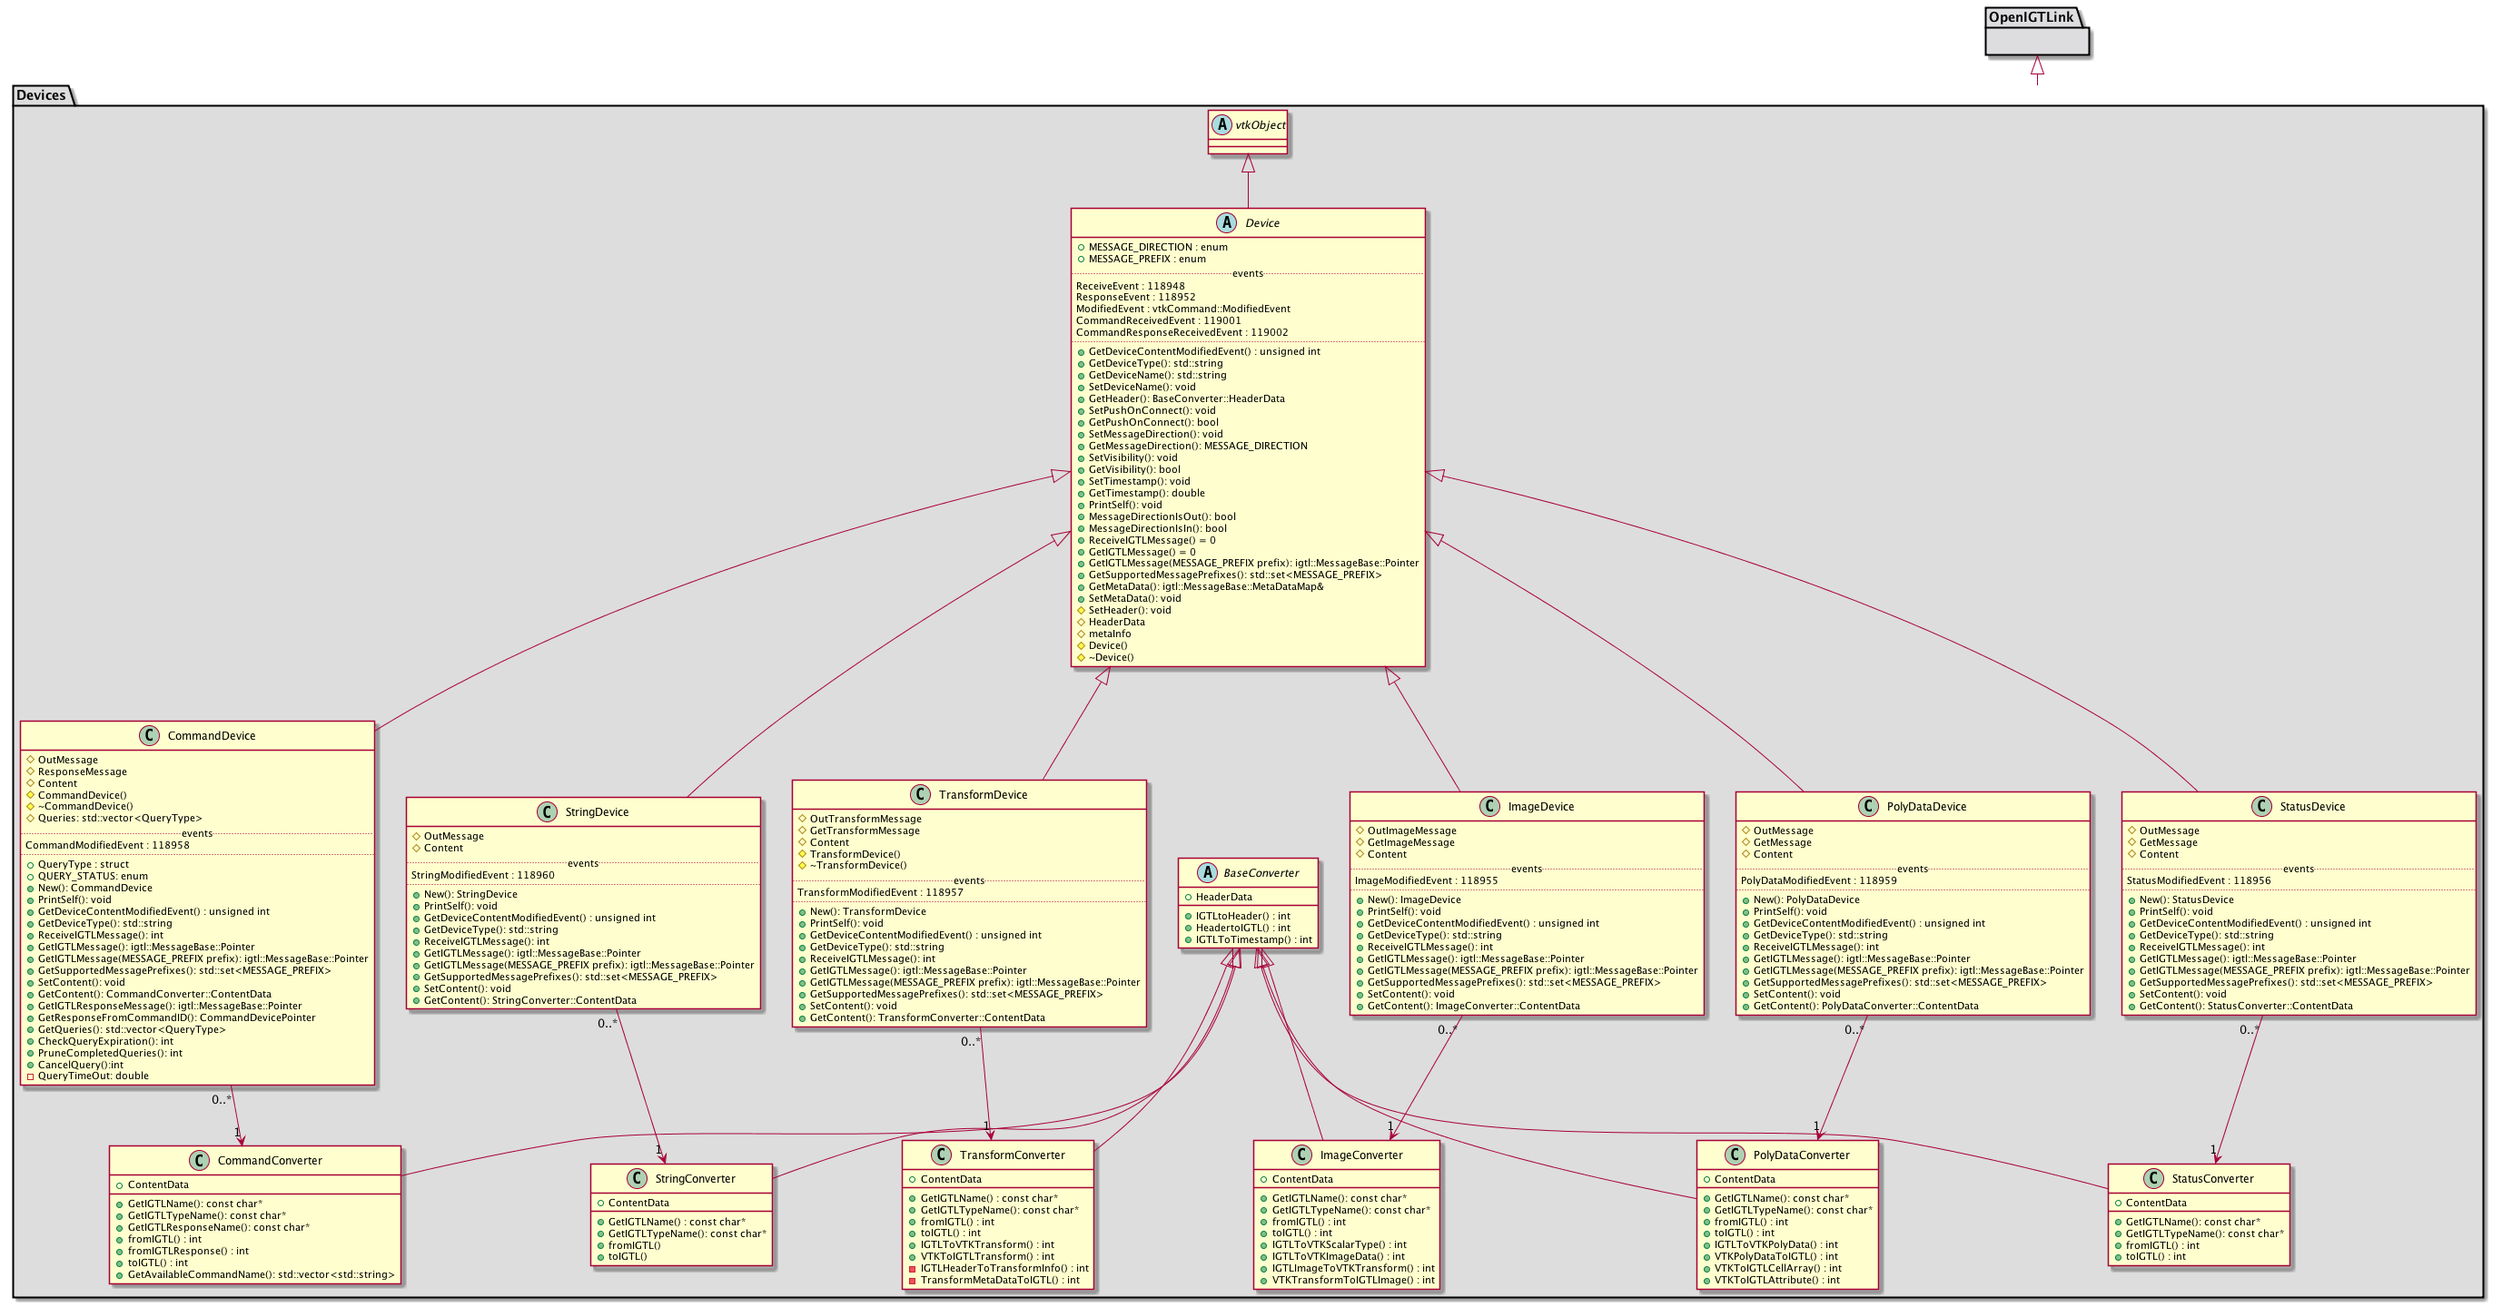
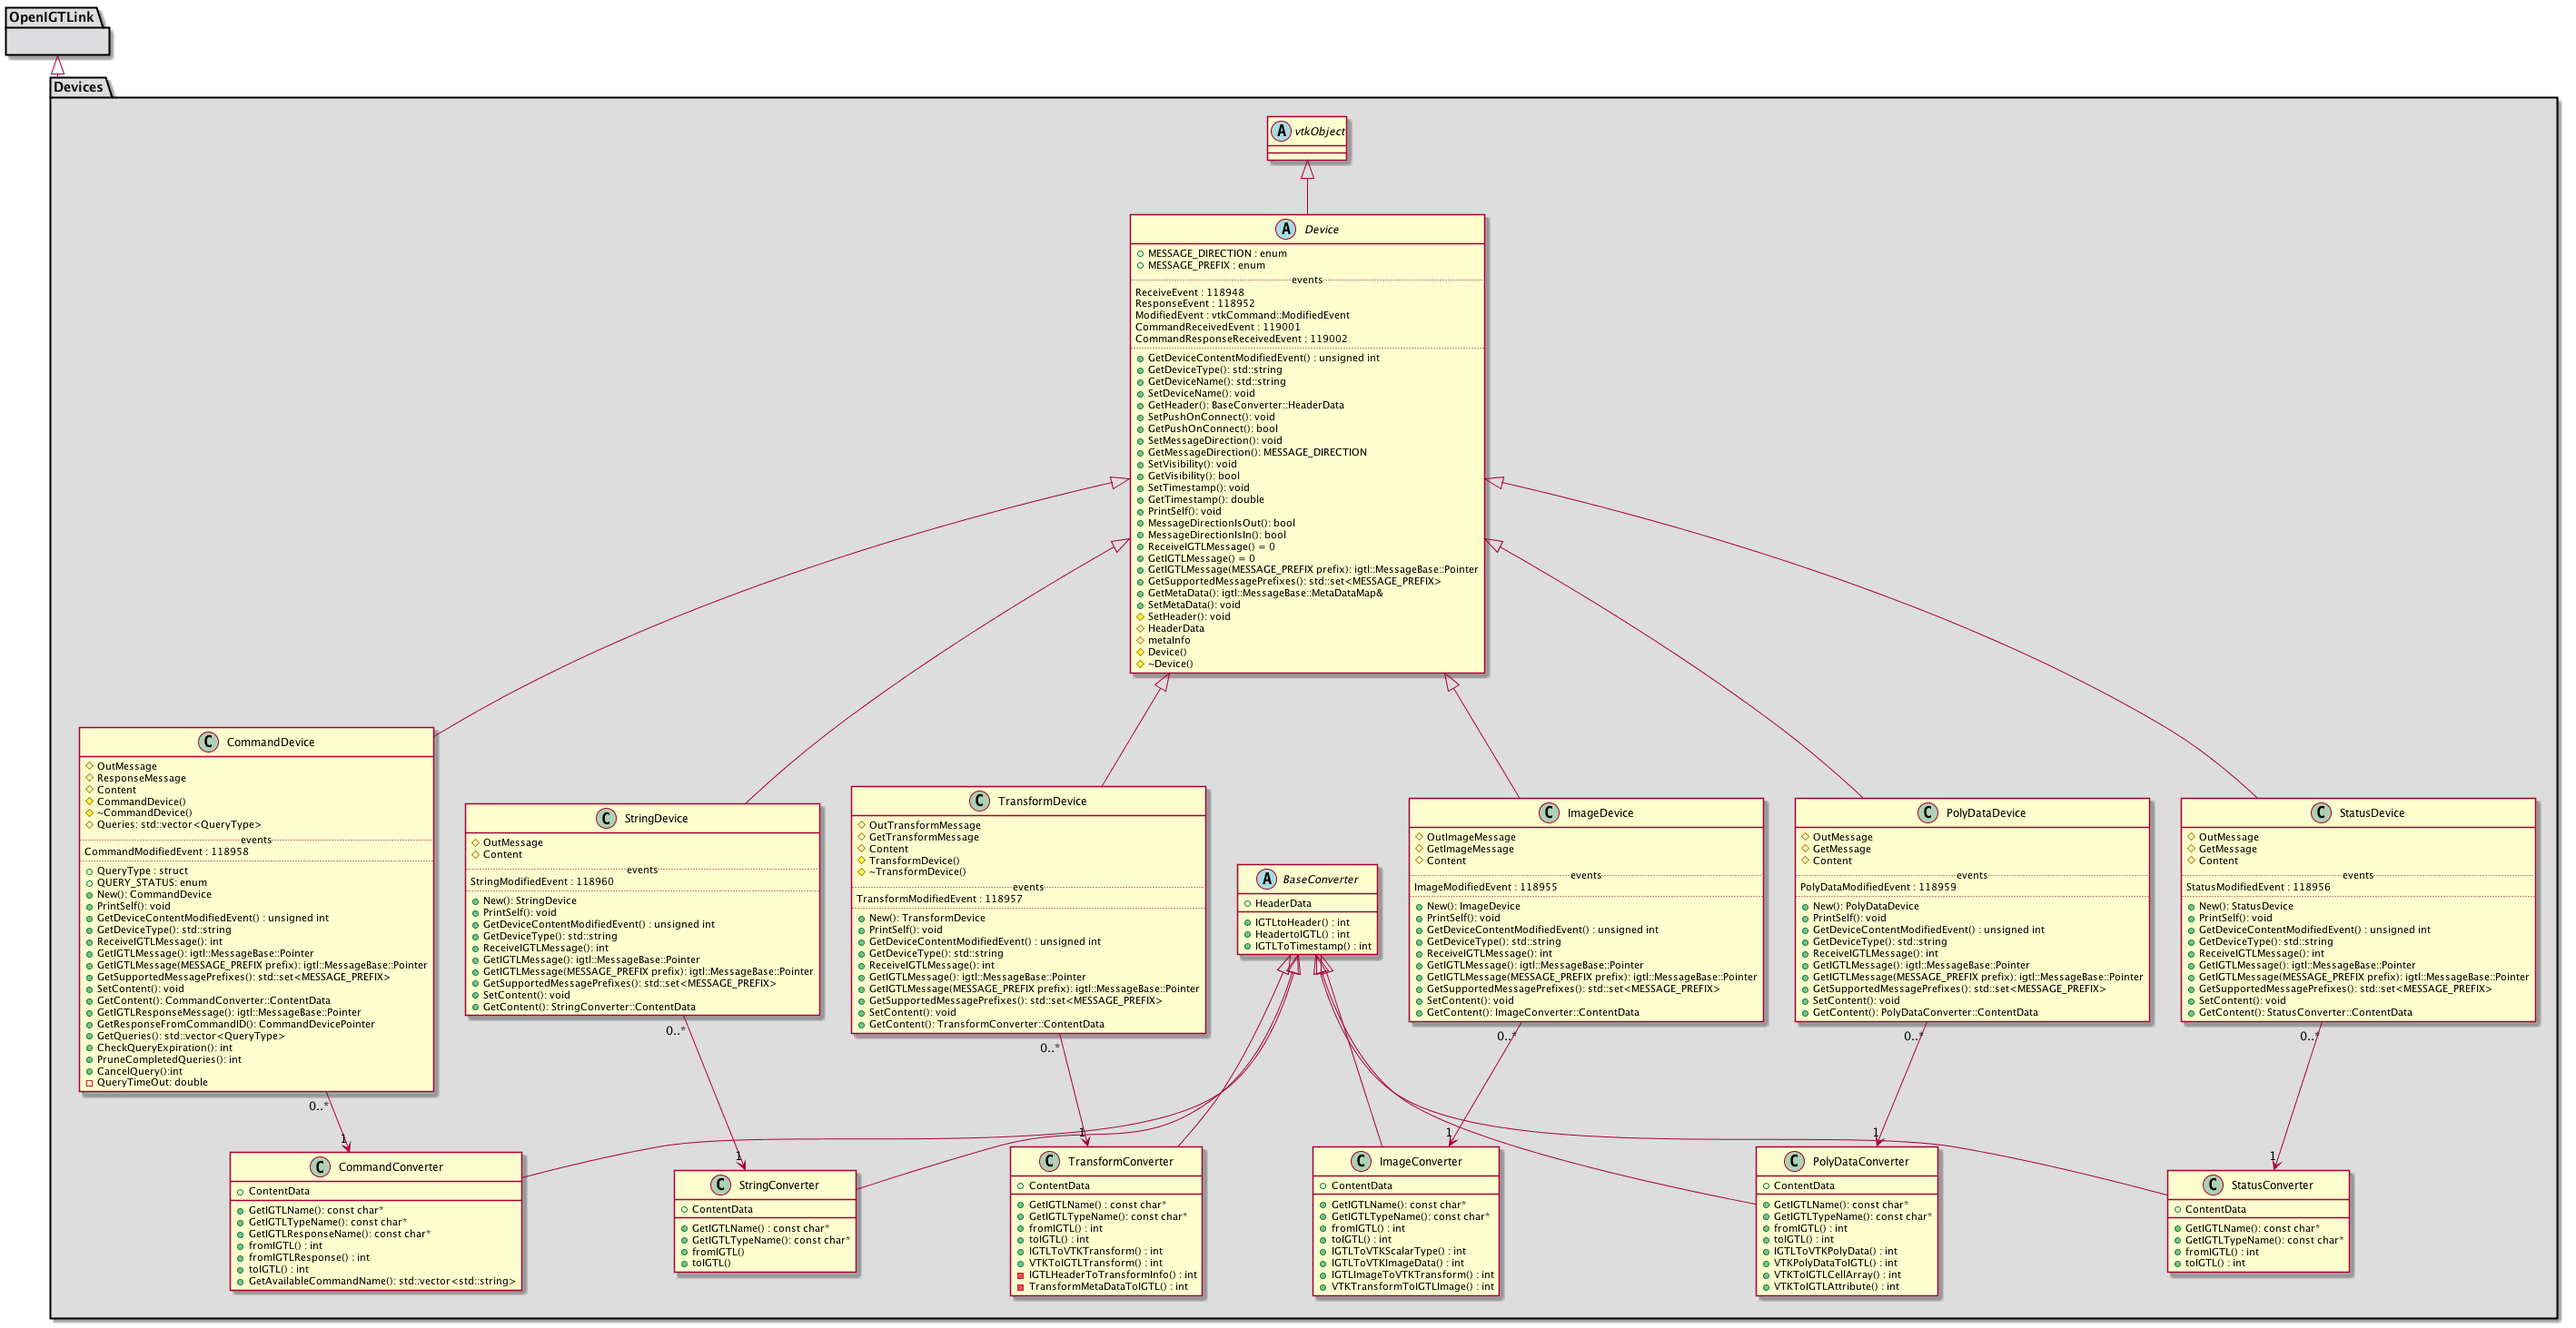
EHN: PlantUML in progress, 2. Command events are moved to command device. 3. Logic observer modified

diff --git a/Logic/igtlioLogic.h b/Logic/igtlioLogic.h
@@ -21,6 +21,7 @@
 #include <igtlTransformMessage.h>
 #include "igtlioLogicExport.h"
 #include "igtlioDevice.h"
+#include "igtlioCommandDevice.h"
 #include "igtlioUtilities.h"
 
 namespace igtlio
@@ -56,14 +57,14 @@ class OPENIGTLINKIO_LOGIC_EXPORT Logic : public vtkObject
 public:
   enum {
     //TODO: harmonize event handling for Logic, Connector, Device.
-    ConnectionAddedEvent        = 118960,
-    ConnectionAboutToBeRemovedEvent      = 118961,
+    ConnectionAddedEvent        = 118980,
+    ConnectionAboutToBeRemovedEvent      = 118981,
 
     NewDeviceEvent        = 118949,
     //DeviceModifiedEvent   = 118950, // must listen to each specific device in order to get this one.
     RemovedDeviceEvent    = 118951,
-    CommandReceivedEvent = Device::CommandReceivedEvent, // one of the connected COMMAND devices got a query
-    CommandResponseReceivedEvent = Device::CommandResponseReceivedEvent // one of the connected COMMAND devices got a response
+    CommandReceivedEvent = igtlio::CommandDevice::CommandReceivedEvent, // one of the connected COMMAND devices got a query
+    CommandResponseReceivedEvent = igtlio::CommandDevice::CommandResponseReceivedEvent // one of the connected COMMAND devices got a response
   };
 
  static Logic *New();
@@ -91,11 +92,15 @@ public:
  void RemoveDevice(unsigned int index);
  DevicePointer GetDevice(unsigned int index);
  int ConnectorIndexFromDevice( DevicePointer d );
-
+  
 
 protected:
  Logic();
  virtual ~Logic();
+ 
+ void onDeviceEventFunc(vtkObject *caller, unsigned long event, void *callData);
+ void onNewDeviceEventFunc(vtkObject *caller, unsigned long event, void *callData);
+ void onRemovedDeviceEventFunc(vtkObject *caller, unsigned long event, void *callData);
 
 private:
  std::vector<ConnectorPointer> Connectors;
@@ -106,12 +111,11 @@ private:
 
   int CreateUniqueConnectorID() const;
   std::vector<DevicePointer> CreateDeviceList() const;
-
-  vtkSmartPointer<class vtkCallbackCommand> NewDeviceCallback;
-  vtkSmartPointer<class vtkCallbackCommand> RemovedDeviceCallback;
-
-public:
-  vtkSmartPointer<class vtkCallbackCommand> DeviceEventCallback;
+  
+  unsigned long CommandReceivedEventTag;
+  unsigned long CommandResponseReceivedEventTag;
+  unsigned long NewDeviceEventTag;
+  unsigned long RemoveDeviceEventTag;
 
 };
 } // namespace igtlio

diff --git a/Devices/igtlioDevice.h b/Devices/igtlioDevice.h
@@ -56,9 +56,6 @@ public:
    ReceiveEvent          = 118948,
    ResponseEvent         = 118952,
    ModifiedEvent         = vtkCommand::ModifiedEvent,
-
-   CommandReceivedEvent    = 119001, // COMMAND device got a query, COMMAND received
-   CommandResponseReceivedEvent = 119002  // COMMAND device got a response, RTS_COMMAND received
  };
 
 

diff --git a/Devices/igtlioCommandDevice.h b/Devices/igtlioCommandDevice.h
@@ -14,6 +14,8 @@ class OPENIGTLINKIO_DEVICES_EXPORT CommandDevice : public Device
 {
 public:
   enum {
+    CommandReceivedEvent    = 119001, // COMMAND device got a query, COMMAND received
+    CommandResponseReceivedEvent = 119002,  // COMMAND device got a response, RTS_COMMAND received
     CommandModifiedEvent         = 118958,
   };
 
